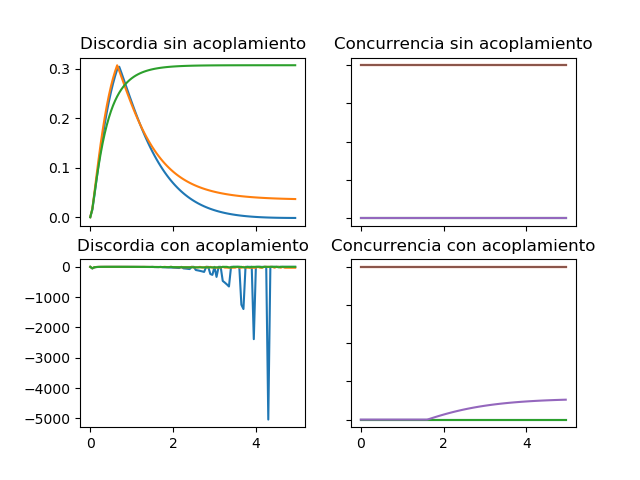
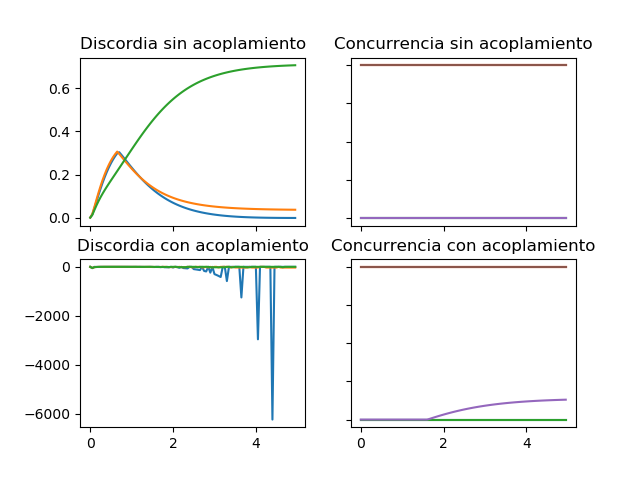
Cambio generado con script

diff --git a/master.py b/master.py
@@ -35,8 +35,7 @@ def me3(IN,RES):
     sol=mesolve(tensor(identity(2),identity(2)), IN, times, RES)
     out=[[0 for i in range(100)],[0 for i in range(100)]]
     conc=[0 for i in range(100)]
-    disc=[0 for i in range(100)]
-    
+    disc=[0 for i in range(100)]    
     def entropy_opt(a):
         ent_comp=[0 for i in range(4)]
         if a.matrix_element(tensor(basis(2,0)),tensor(basis(2,0)))+a.matrix_element(tensor(basis(2,1)),tensor(basis(2,1)))==0:
@@ -55,7 +54,7 @@ def me3(IN,RES):
     for i in range (0,100):
         mat=Qobj(sol.states[i])
         conc[i]=concurrence(mat),4
-        disc[i]=entropy_mutual(mat,0,1)-entropy_vn(mat.ptrace(0))+entropy_opt(mat)
+        disc[i]=-entropy_vn(mat)+entropy_vn(mat.ptrace(0))+entropy_opt(mat)
     out=[conc,disc]
     return out
 
